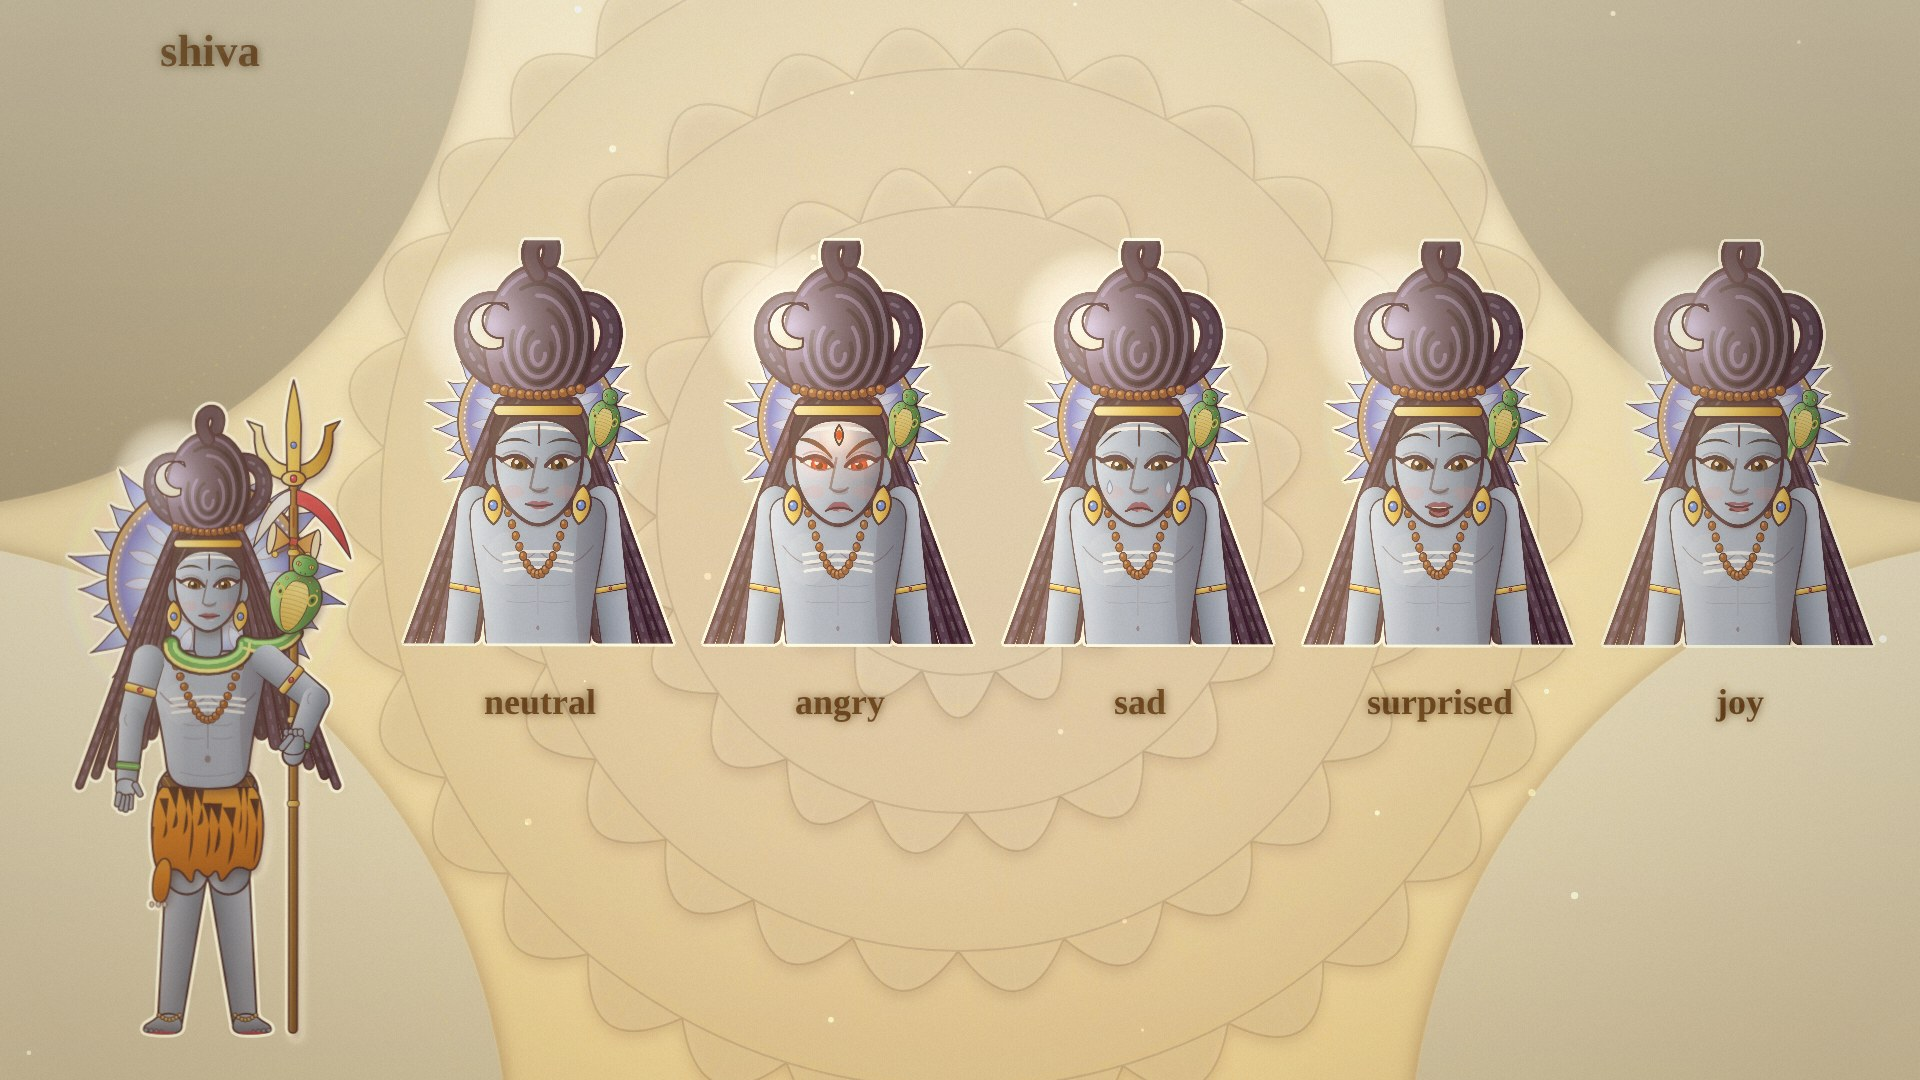
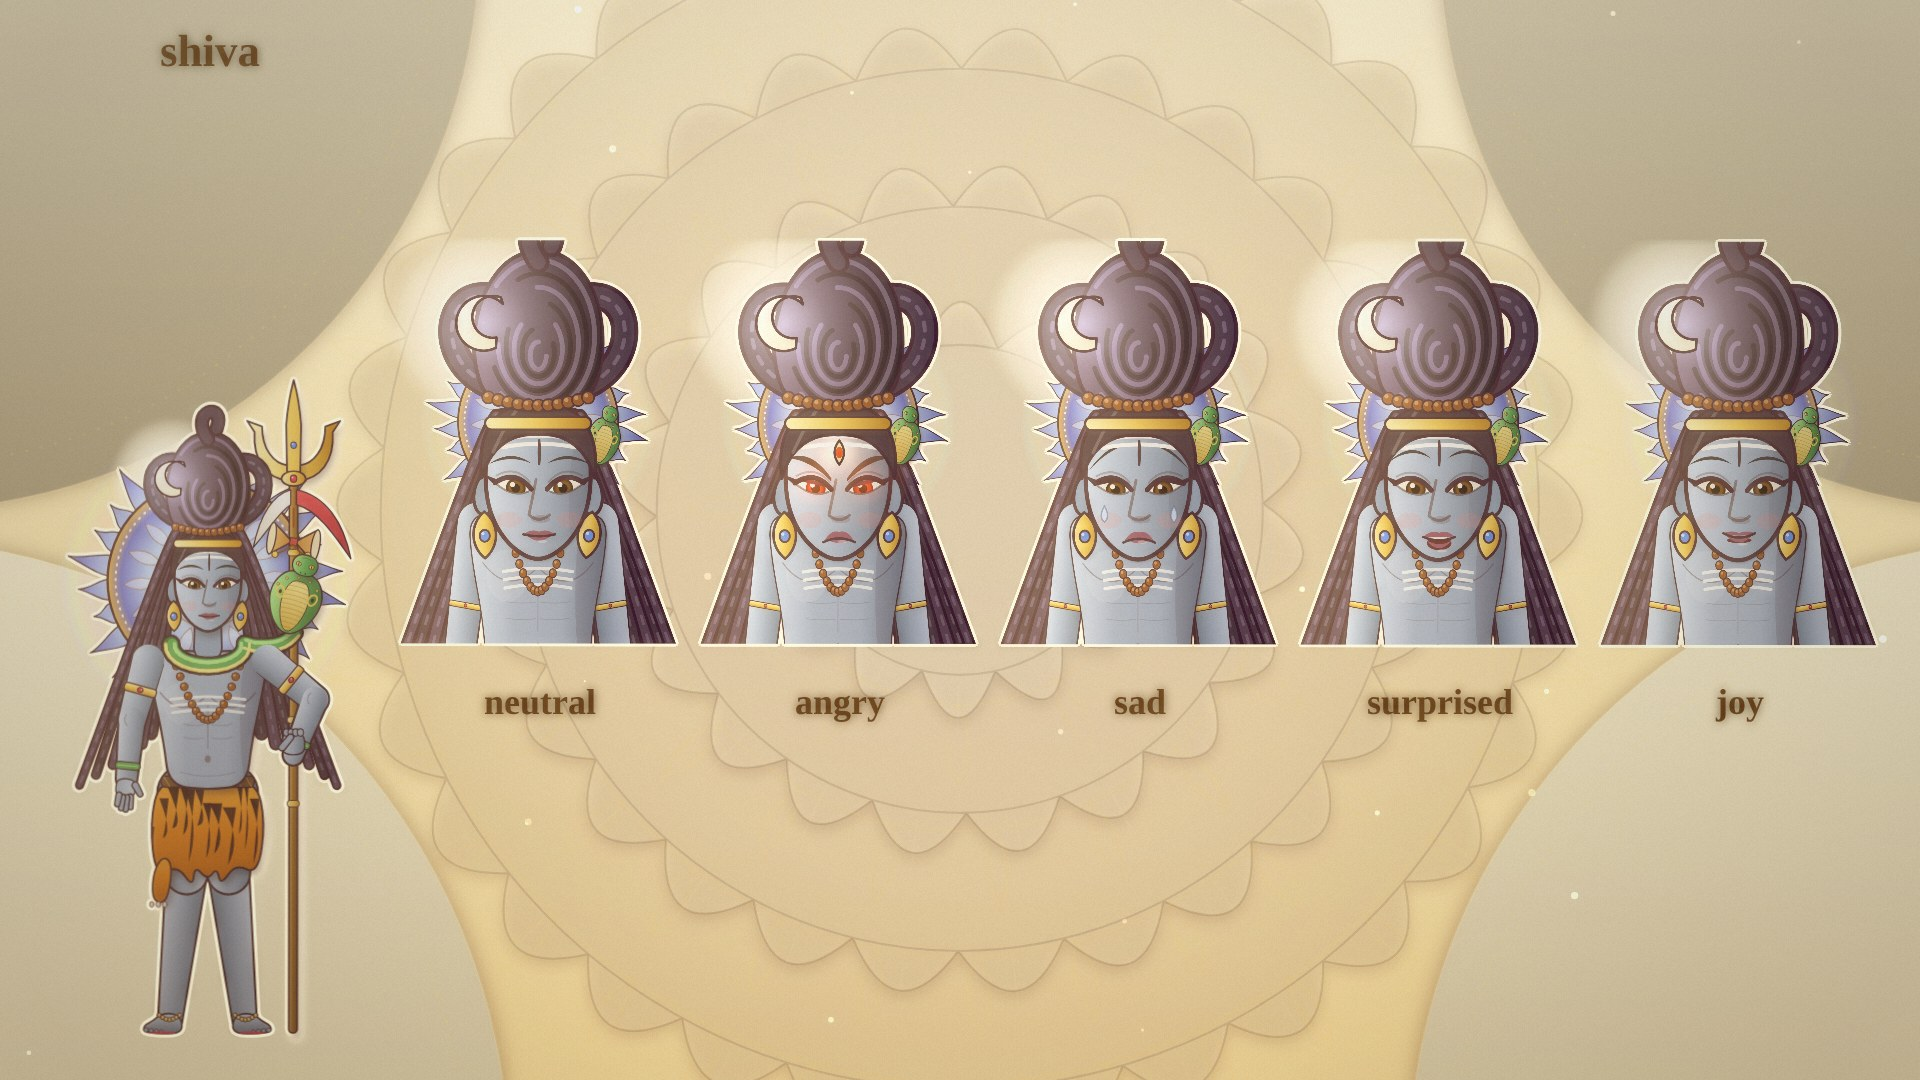
Shiva close-up: even larger head
Claude-Session: https://claude.ai/code/session_01Ec4SCjc7mpKu4xcSrfyjyA

Changed region(s): [[0.1875, 0.2139, 0.9688, 0.6111]]

diff --git a/engine/v2_cast.js b/engine/v2_cast.js
@@ -456,7 +456,7 @@ function bust(c,S,o){const sk=skinPK(S),t=o.t||0,bw=Math.min(S.build||1,1.2);c.s
 function v2head(who,x,y,s,t,o){ // close-up of the head with neck, shoulders and garments
   const OYH=1300,FR=clamp(s*SC_,2,3.9),RG=[-300,-330,600,640];const c=figBegin(FR,OYH,RG);PK.setDPR(FR);const ex=o.expr||{},kk=ex.brow!=null&&ex.brow<-.2?clamp(-ex.brow*1.1,0,1):0,face=ex.eye!=null&&ex.eye<.5?'closed':'calm';
   if(o.flip<0)c.scale(-1,1);c.scale(1.32,1.32);const M=o.mood,turn=o.tilt?0:.06;
-  if(who==='shiva'){const S=CAST.shiva;c.translate(0,-6);c.scale(.86,.86);PK.halo(c,0,-30,112,t,Object.assign({g:.55,n:26},S.halo));c.save();c.translate(0,30);c.scale(1.68,1.68);hairBack(c,S,{hd:[0,0],ph:[0,200]},t);c.restore();c.save();c.translate(0,14);c.scale(.72,.88);bust(c,S,{t:t,k:kk});c.restore();c.save();c.translate(0,30);c.scale(1.9,1.9);drawHead(c,0,0,{expr:face==='closed'?'closed':'calm',k:kk,S:S,t:t,mood:M,turn:turn});hairFront(c,S,0,0,t);c.restore()}
+  if(who==='shiva'){const S=CAST.shiva;c.translate(0,-6);c.scale(.86,.86);PK.halo(c,0,-30,112,t,Object.assign({g:.55,n:26},S.halo));c.save();c.translate(0,62);c.scale(1.95,1.95);hairBack(c,S,{hd:[0,0],ph:[0,200]},t);c.restore();c.save();c.translate(0,38);c.scale(.72,.88);bust(c,S,{t:t,k:kk});c.restore();c.save();c.translate(0,62);c.scale(2.25,2.25);drawHead(c,0,0,{expr:face==='closed'?'closed':'calm',k:kk,S:S,t:t,mood:M,turn:turn});hairFront(c,S,0,0,t);c.restore()}
   else if(who==='brahma'){const S=BRAHMA;PK.halo(c,0,-40,108,t,{g:.5,n:26});bust(c,S,{t:t});
     const side=(x2,tn)=>{c.save();c.translate(x2,12);c.scale(.8,.8);c.filter='brightness(.8)';drawHead(c,0,0,{expr:face,k:kk*.8,S:S,t:t+x2*.01,mood:Object.assign({smile:.2},M&&M.sad?{sad:M.sad*.8}:{}),turn:tn});c.save();c.scale(1-Math.abs(tn)*.3,1);PK.hairCap(c,'#e6e0da');PK.jataMukuta(c);c.restore();c.filter='none';c.restore()};
     side(-62,-.6);side(62,.6);drawHead(c,0,0,{expr:face,k:kk,S:S,t:t,mood:M,turn:turn});PK.hairCap(c,'#e6e0da');PK.jataMukuta(c)}
